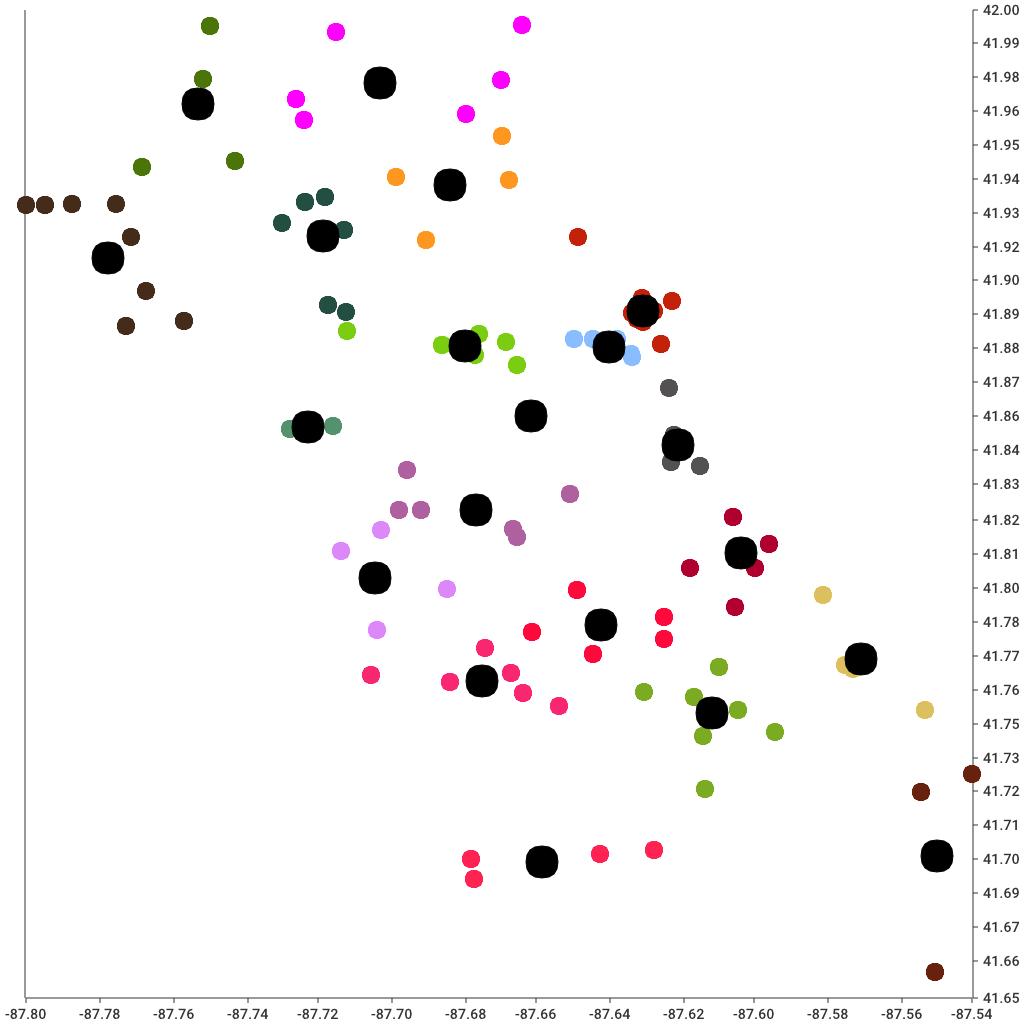
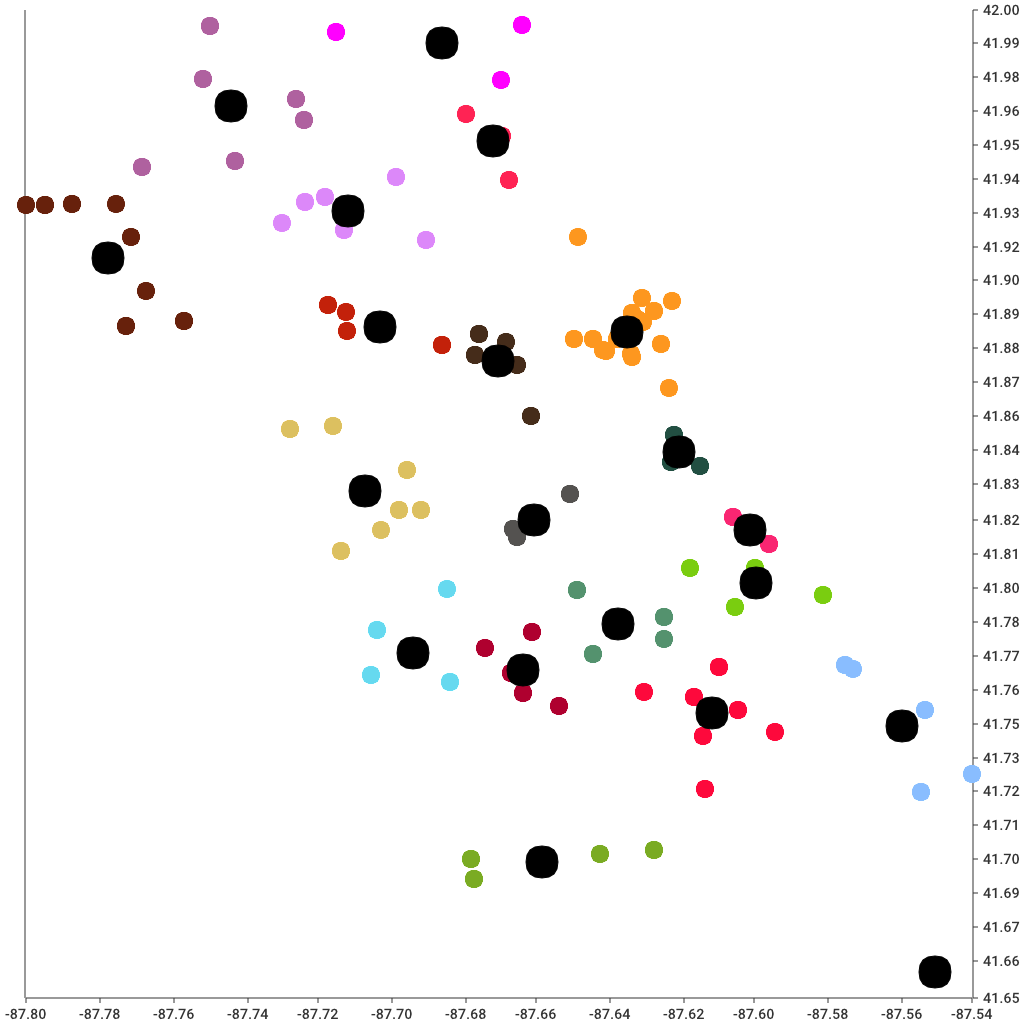
sorting nearest cluster first

diff --git a/borderadjust.go b/borderadjust.go
@@ -3,7 +3,6 @@ package main
 import (
 	"math/rand"
 	"sort"
-	"time"
 )
 
 type diffsort struct {
@@ -11,20 +10,19 @@ type diffsort struct {
 	data   Observation
 }
 
-func (c Clusters) borderadjust(A int) (Observations, []diffsort) {
-	rand.Seed(time.Now().UnixNano())
+func (c Clusters) borderadjust(A int, B int) (Observations, []diffsort) {
+	rand.Seed(20)
 	// For each point p in area A
 	var diff []diffsort
 	var diffB []diffsort
 	var diffA []diffsort
 	var obsA Observations
 	var obsB Observations
-	var r int
 
 	for _, p := range c[A].Observations {
-		r, _ = c.Neighbour(p, A)
+		// r, _ = c.Neighbour(p, A)
 		distA := p.Distance(c[A].Center)
-		distB := p.Distance(c[r].Center)
+		distB := p.Distance(c[B].Center)
 		//  Calculate diff(p, B) based on (2);
 		diff = append(diff, diffsort{distB - distA, p})
 		// fmt.Println(A, B, "then", ci)
@@ -35,9 +33,10 @@ func (c Clusters) borderadjust(A int) (Observations, []diffsort) {
 	})
 	//  Move the first m point in area A based on sorted
 	// diff(p, B) to area B;
-	n := rand.Intn(103-101) + 101
-	if len(c[A].Observations) > n { // && len(c[A].Observations) > len(c[r].Observations) {
-		m := len(c[A].Observations) - n
+	// n := rand.Intn(103-101) + 101
+	chunkSize := (len(d) + 20 - 1) / 20
+	if len(c[A].Observations) > chunkSize { // && len(c[A].Observations) > len(c[r].Observations) {
+		m := len(c[A].Observations) - chunkSize
 		for i := 0; i < m; i++ {
 			// move to B
 			diffB = append(diffB, diff[i])

diff --git a/main.go b/main.go
@@ -41,7 +41,7 @@ func main() {
 	min, max := MinMax(count)
 	fmt.Println(min, max)
 	iter := 0
-	for max-min > 3 {
+	for max-min > 10 {
 		var count3 []int
 		//  Plan the steps of adjustment among clusters;
 		// 19 step (0, 1) (1,2), dst
@@ -50,9 +50,37 @@ func main() {
 			// cc, _ := New(20, clusters[i].Observations)
 			var diffA Observations
 			var diffB []diffsort
+			// type sorted struct {
+			// 	cl int
+			// 	dt float64
+			// }
+			// var sortcd []sorted
+			// var B int
+			// for i, _ := range clusters {
+			// 	// search nearest neighbour
+			// 	r, cd := clusters.Neighbour(clusters[i].Center, i)
+			// 	sortcd = append(sortcd, sorted{
+			// 		r,
+			// 		cd,
+			// 	})
+			// }
+
+			// //close (?)
+			// sort.SliceStable(sortcd, func(i, j int) bool {
+			// 	return sortcd[i].dt < sortcd[j].dt
+			// })
+			// B = sortcd[0].cl
+			// if len(clusters[B].Observations) > 102 {
+			// 	//bikin neighbour yang isinya < 102
+			// 	B = sortcd[1].cl
+			// }
 
 			//call borderadjust, get new cluster A & B
-			diffA, diffB = clusters.borderadjust(i)
+			if i < (len(clusters) - 1) {
+				diffA, diffB = clusters.borderadjust(i, i+1)
+			} else {
+				diffA, diffB = clusters.borderadjust(i, 0)
+			}
 
 			if len(diffA) == 0 && len(diffB) == 0 {
 				continue

diff --git a/cluster.go b/cluster.go
@@ -3,7 +3,6 @@ package main
 import (
 	"fmt"
 	"math/rand"
-	"time"
 )
 
 // A Cluster which data points gravitate around
@@ -25,7 +24,7 @@ func New(k int, dataset Observations) (Clusters, error) {
 		return c, fmt.Errorf("k must be greater than 0")
 	}
 
-	rand.Seed(time.Now().UnixNano())
+	rand.Seed(20)
 	//HERE
 	for i := 0; i < k; i++ {
 		var p Coordinates
